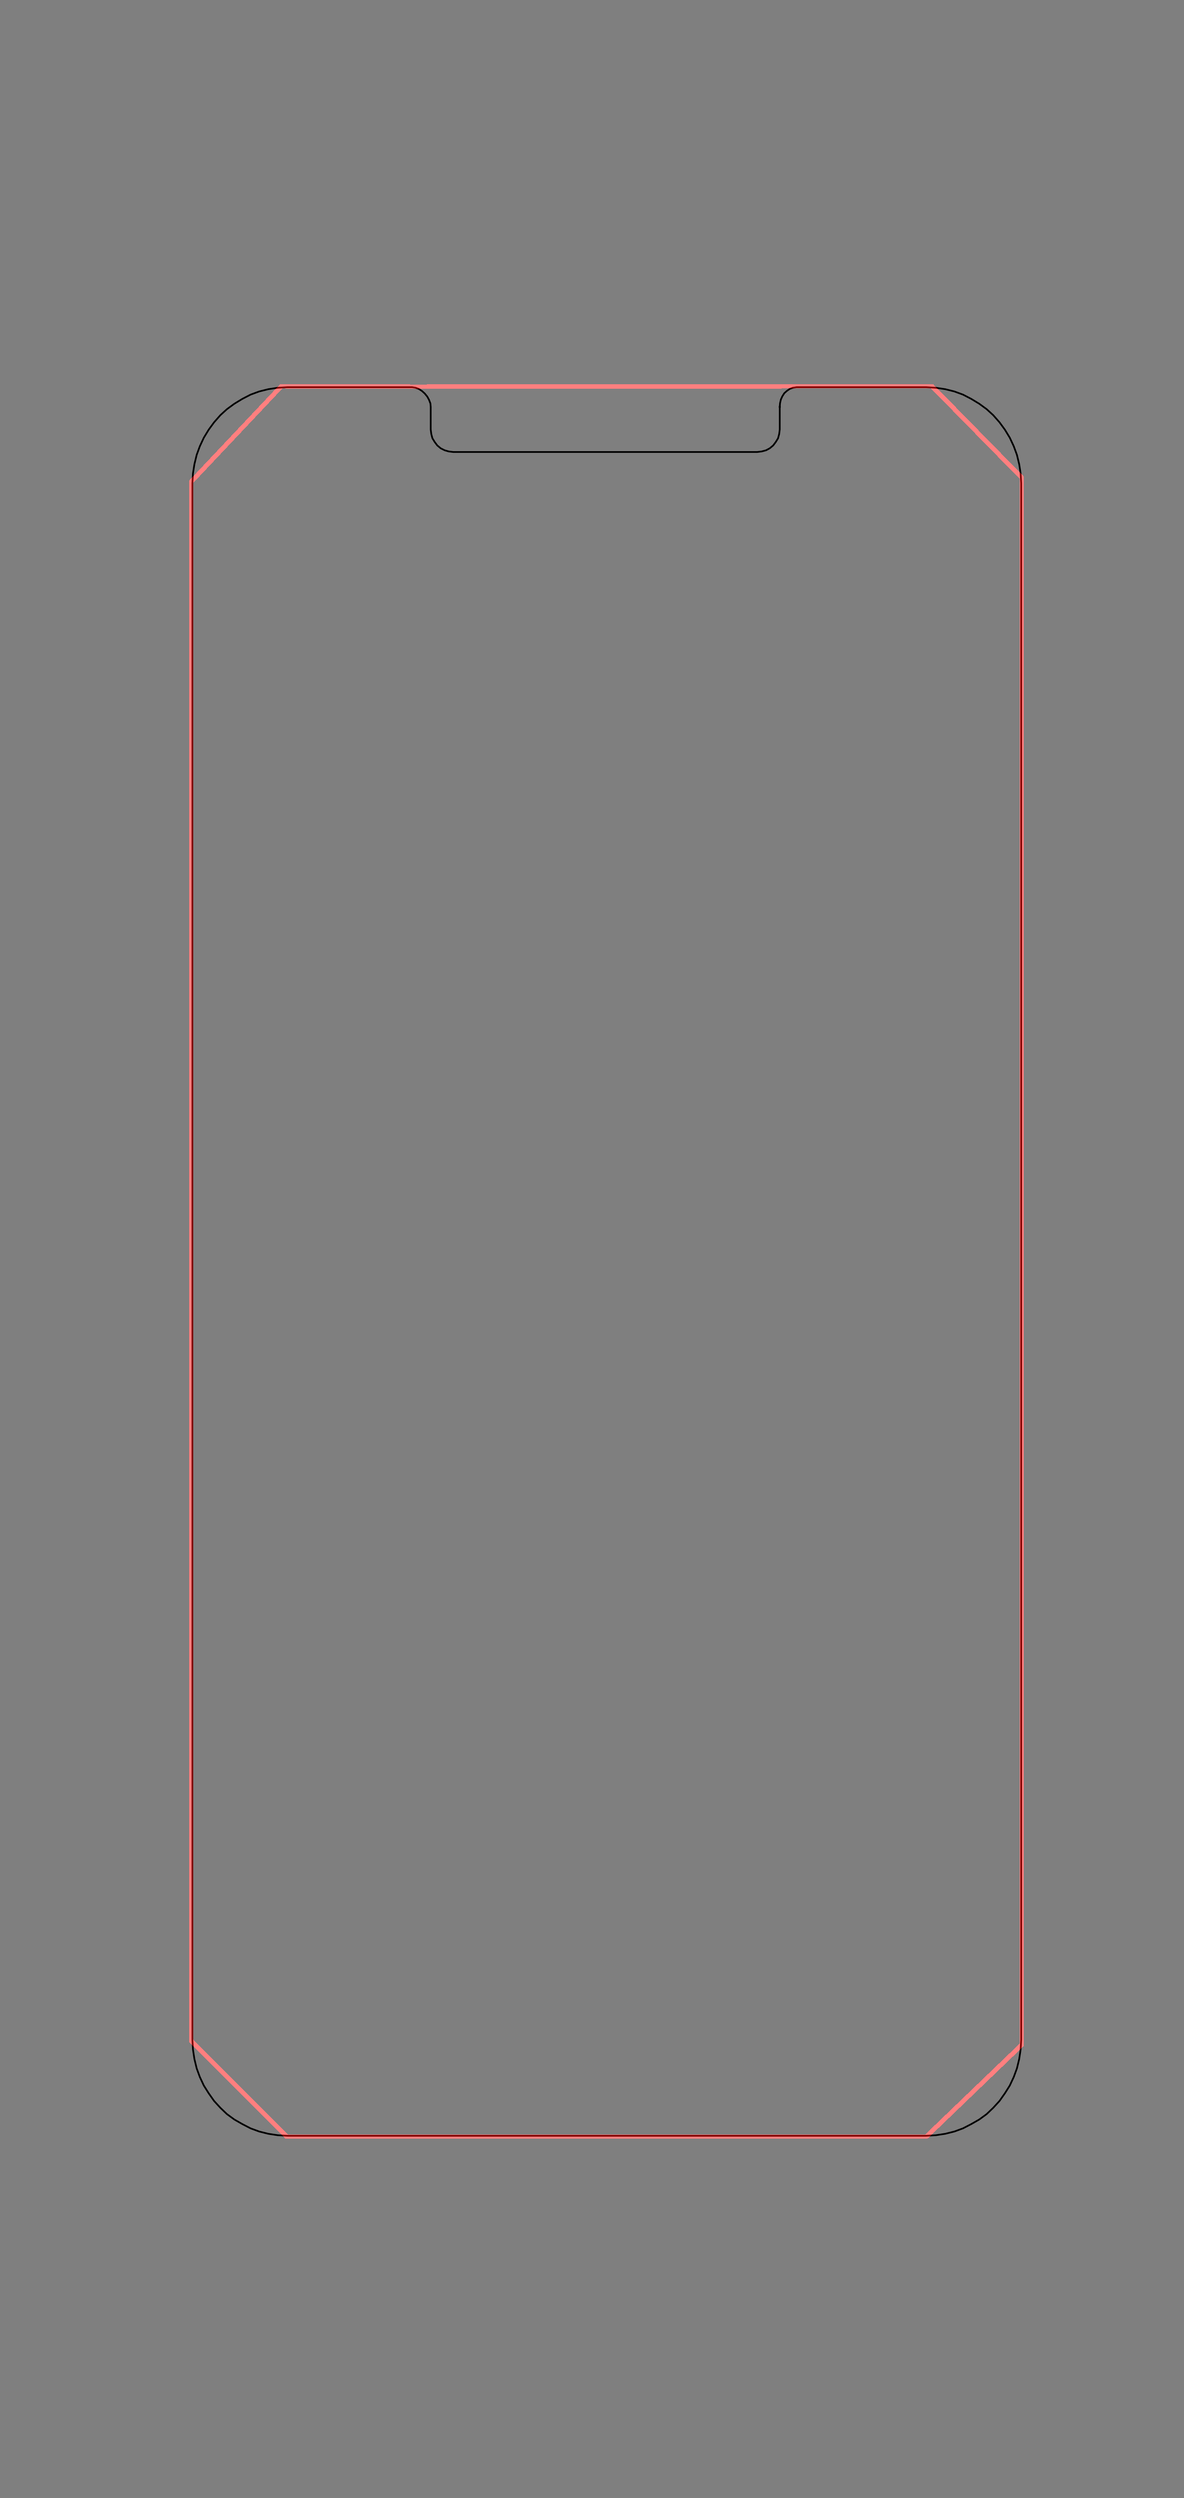
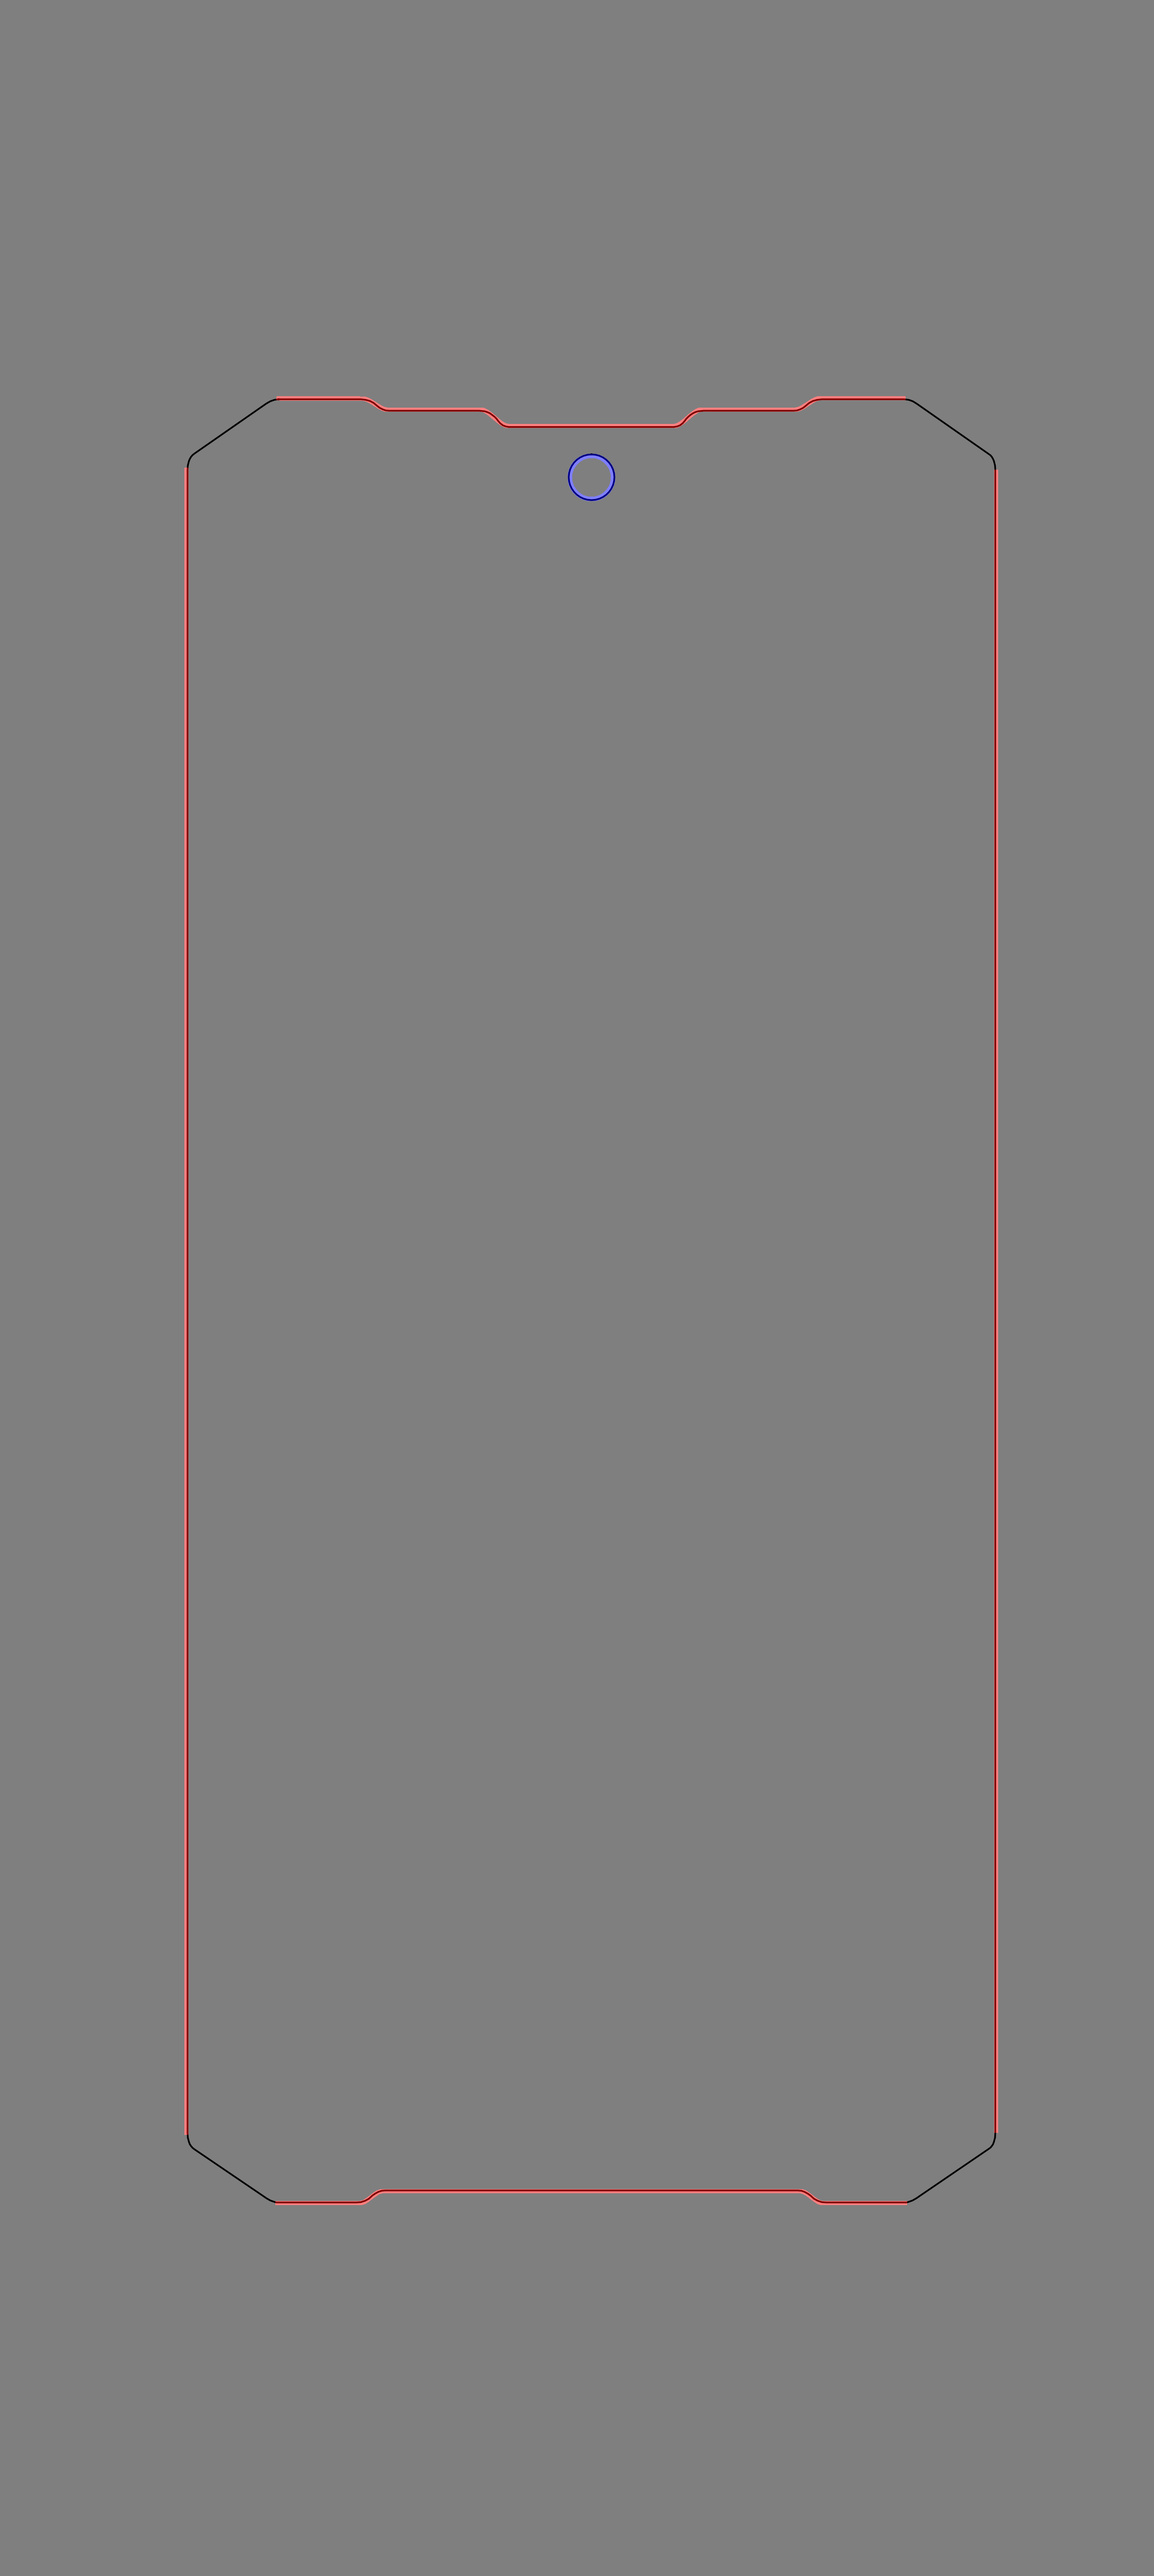
lines

diff --git a/countoureMain.py b/countoureMain.py
@@ -9,14 +9,9 @@ from shapely.geometry import Polygon
 from shapely.ops import split
 from shapely import geometry
 from geomUtils import *
-from commonData import LineStatus, ParallStatus, Corner
+from commonData import LineStatus, ParallStatus, Corner,svgCountoure
 
 
-class svgCountoure(enum.Enum):
-    svgM = 0
-    svgL = 1
-    svgC = 2
-    svgZ = 3
 class svgPath:
     svg = []
     def __init__(self):
@@ -34,10 +29,14 @@ class svgPath:
         param= (svgCountoure.svgZ, None)
         self.svg.append(param)
         return
-    def addC(self, pp0, pp1, pp2, pp3):
+    def addChalfCircle(self, pp0, pp1, pp2, pp3):
         bezP1, bezP2, centroid, bezP3, bezP4, sB = bezier.createHalfCircle(pp0, pp1, pp2, pp3)
         
-        param= (svgCountoure.svgC, bezP1, bezP2, centroid, bezP3, bezP4, sB)
+        param= (svgCountoure.svgCHalfCircle, bezP1, bezP2, centroid, bezP3, bezP4, sB)
+        self.svg.append(param)
+        return        
+    def addC(self, pp0, pp1, pp2):
+        param= (svgCountoure.svgC, pp0, pp1, pp2)
         self.svg.append(param)
         return        
     def doPath(self, path, dpi):
@@ -48,9 +47,11 @@ class svgPath:
                 path.L(item[1].x / dpi, item[1].y / dpi)
             if item[0] == svgCountoure.svgZ:
                 path.Z()
-            if item[0] == svgCountoure.svgC:
+            if item[0] == svgCountoure.svgCHalfCircle:
                 path.C(item[1].x / dpi, item[1].y / dpi, item[2].x / dpi, item[2].y / dpi, item[3].x / dpi, item[3].y / dpi)
                 path.C(item[4].x / dpi, item[4].y / dpi, item[5].x / dpi, item[5].y / dpi, item[6].x / dpi, item[6].y / dpi)
+            if item[0] == svgCountoure.svgC:
+                path.C(item[1].x / dpi, item[1].y / dpi, item[2].x / dpi, item[2].y / dpi, item[3].x / dpi, item[3].y / dpi)
         return
     def testPointInCounture(self, lines, circles):
         circlesNew = []
@@ -78,13 +79,13 @@ class svgPath:
         
         return
         
-    def createFlatCouture(self, lines):
+    def createFlatCoutureV1(self, lines):
         for index in range(len(lines)):
             line = lines[index]
             lineType = line[6].cross
             # debug
-            if index == 1:
-            # if lineType == ParallStatus.hor:
+            # if index == 1:
+            if lineType == ParallStatus.hor:
                 lineP = lines[index-1]
                 lineN = lines[index+1]
                 
@@ -116,7 +117,7 @@ class svgPath:
                 
                 # self.UneckSvg(pp0, 40, ppLeft, 60, ppDown, 60, ppRight, 40, ppEnd)
                 # self.UneckSvg(ppStart, 40, ppLeft, 60, ppDown, 60, ppRight, 40, ppEnd)
-                continue
+                # continue
             pp0, pp1 = bezier.convertToPoint(line)
             if index == 0:
                 self.addM(pp0)
@@ -124,10 +125,82 @@ class svgPath:
                 self.addL(pp0)
             self.addL(pp1)
         self.addZ()
+
+    def createFlatCouture(self, lines):
+        for index in range(len(lines)):
+            line = lines[index]
+            pp0, pp1 = bezier.convertToPoint(line)
+            self.addM(pp0)
+            self.addL(pp1)
+            lineType = line[6].cross
+            
+            if lineType == ParallStatus.hor:
+                lineN = lines[index+1]
+                contours = line[6].pointsFig.copy()
+                peri = cv2.arcLength(contours,False)
+                approx = cv2.approxPolyDP(contours, 0.001* peri, False)
+                maxVal, pp0Max, pp1Max = geometryUtils.lenghtContoureLine(approx)
+                if maxVal > 0:
+                    coff = peri / maxVal
+                    if coff < 5:
+                        self.cornerBetweenToParallelLinesTwoSpline( line, lineN, pp0Max, pp1Max)
+                    else:
+                        self.cornerBetweenToParallelLinesOneSplne( line, lineN)
+        self.addZ()
+    # соединение пареллельных линий (линии внутри нет)
+    def cornerBetweenToParallelLinesOneSplne(self, line, lineN):
+        pp0 = Point(line[0][0],line[0][1])
+        pp1 = Point(line[1][0],line[1][1])
+
+        pp2 = Point(lineN[0][0],lineN[0][1])
+        pp3 = Point(lineN[1][0],lineN[1][1])
+
+        self.cornerBy2Point(pp1, pp2)
+        return
+    # соединение пареллельных линий (есть линия внутри)
+    def cornerBetweenToParallelLinesTwoSpline(self, line, lineN, pp0Max, pp1Max):
+        pp0 = Point(line[0][0],line[0][1])
+        pp1 = Point(line[1][0],line[1][1])
+
+        pp2 = Point(lineN[0][0],lineN[0][1])
+        pp3 = Point(lineN[1][0],lineN[1][1])
         
+        ppIntersected0 = geometryUtils.calkPointIntersection(pp0, pp1, pp0Max, pp1Max)
+        ppIntersected1 = geometryUtils.calkPointIntersection(pp2, pp3, pp0Max, pp1Max)
+
+        self.cornerBy3Point(pp1, ppIntersected0, pp1Max)
+        self.addL(pp0Max)
+        self.cornerBy3Point(pp0Max, ppIntersected1, pp2)
+        
+        # self.addL(ppIntersected0)
+        # self.addL(pp1Max)
+        # self.addL(pp0Max)
+        # self.addL(ppIntersected1)
+        # self.addL(pp2)
+        return
+    # угол по 2 точкам (для параллельных прямых)
+    def cornerBy2Point(self, pp0, pp1):
+        coff1 = 0.7
+        pp01 = Point(pp1.x,pp0.y)
+        pp10 = Point(pp0.x,pp1.y)
+        
+        bezP0 = bezier.interpolatePoint(pp01, pp0, coff1)
+        bezP1 = bezier.interpolatePoint(pp10, pp1, coff1)
+        self.addC(bezP0, bezP1, pp1)
+        return
+    # угол по 3 точкам
+    def cornerBy3Point(self, pp0, pp1, pp2):
+        coff1 = 0.6
+        bezP0 = bezier.interpolatePoint(pp0, pp1, coff1)
+        bezP1 = bezier.interpolatePoint(pp2, pp1, coff1)
+        self.addC(bezP0, bezP1, pp2)
+        return
+    
     def cornerBetweenToLines(self, pp0S, pp0E, pp1S, pp1E):
         ppIntersected = geometryUtils.calkPointIntersection(pp0S, pp0E, pp1S, pp1E)
-        
+        if ppIntersected is not None:
+            self.addL(ppIntersected)
+
         # geometryUtils.cornerBetweenToLines(pp0S, pp0E, pp1S, pp1E)
         return
     def UneckSvg(self, ppStart, cornSize0, ppLeft, cornSize1, ppDown, cornSize2, ppRight, cornSize3, ppEnd):

diff --git a/lecaloConverterUtils.py b/lecaloConverterUtils.py
@@ -421,24 +421,29 @@ class cvUtils:
 
     # сохранение результатов
     def saveResult(img, filesSrc, svgDir, svgTestName, pngTestName,pngDir):
-        if not os.path.isdir(svgDir):
-            os.mkdir(svgDir)
+        if svgDir is not None:
+            if not os.path.isdir(svgDir):
+                os.mkdir(svgDir)
+        if pngDir is not None:
+            if not os.path.isdir(pngDir):
+                os.mkdir(pngDir)
         name = pathlib.Path(filesSrc).stem
         name =name.removesuffix('.prn')
-        nameSvg = svgDir + "/" + name + ".svg"
-        # nameSvg = "result.svg"
-        with open(svgTestName, "r") as f1, open(nameSvg, "w") as f2:
-            lines = f1.readlines()
+        if svgDir is not None:
+            nameSvg = svgDir + "/" + name + ".svg"
+            # nameSvg = "result.svg"
+            with open(svgTestName, "r") as f1, open(nameSvg, "w") as f2:
+                lines = f1.readlines()
 
-            for line in lines:
-                line = line.strip() + "\n"
-                key = line.find("viewBox")
-                if key >= 0:
-                    f2.write(
-                        'width="8.2677in" height="11.6929in" viewBox="0 0 595.2756 841.8898">\n'
-                    )
-                else:
-                    f2.write(line)
+                for line in lines:
+                    line = line.strip() + "\n"
+                    key = line.find("viewBox")
+                    if key >= 0:
+                        f2.write(
+                            'width="8.2677in" height="11.6929in" viewBox="0 0 595.2756 841.8898">\n'
+                        )
+                    else:
+                        f2.write(line)
 
         imgSvg = cv2.imread(pngTestName)
         imgSrc = cv2.cvtColor(img, cv2.COLOR_GRAY2BGR)

diff --git a/main.py b/main.py
@@ -16,7 +16,8 @@ from bezier import bezier, contoureAnalizer, FigureStatus
 testName = None
 filesDir = '../popular1/'
 filesSrc = None
-svgDir = '../outSvg/'
+svgDir = None
+# '../outSvg/'
 cmpDir = '../outSvg/'
 pngDir = None
 doConsole = True
@@ -276,8 +277,10 @@ def show_frame():
 
 if doConsole == False:
     show_frame()
+    bezier.DEBUG_MODE = True
     root.mainloop()
 else:
+    bezier.DEBUG_MODE = False
     listFiles = getFiles()
     if listFiles is None:
         print(filesDir + " - директория пуста или отсутсявует")

diff --git a/cornerFig.py b/cornerFig.py
@@ -35,9 +35,9 @@ class CircuitSvg:
 
             svgMain.addM(pp0)
             svgMain.addL(pp1)
-            svgMain.addC(pp0, pp1, pp2, pp3)
+            svgMain.addChalfCircle(pp0, pp1, pp2, pp3)
             svgMain.addL(pp3)
-            svgMain.addC(pp2, pp3, pp0, pp1)
+            svgMain.addChalfCircle(pp2, pp3, pp0, pp1)
             svgMain.addZ()
             svgMain.doPath(path, dpi)
             draw.append(path)

diff --git a/commonData.py b/commonData.py
@@ -3,11 +3,17 @@
 # статус паралельных линий
 import enum
 
+class svgCountoure(enum.Enum):
+    svgM = 0
+    svgL = 1
+    svgCHalfCircle = 2
+    svgZ = 3
+    svgC = 4
 
 class ParallStatus(enum.Enum):
     # не паралельны
     none = 0
-    # закругленный угол
+    # закругленный угол  
     vert = 1
     vert_left = 2
     vert_right = 3
